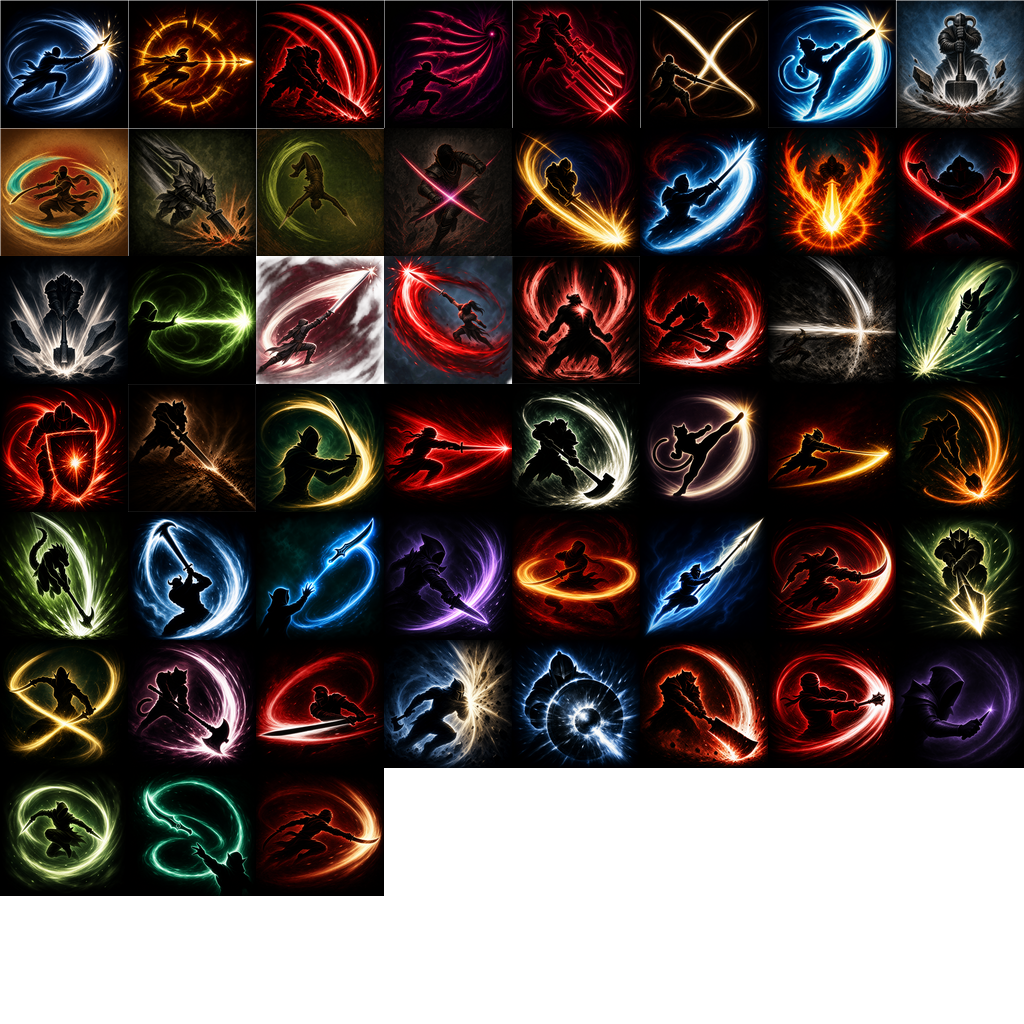
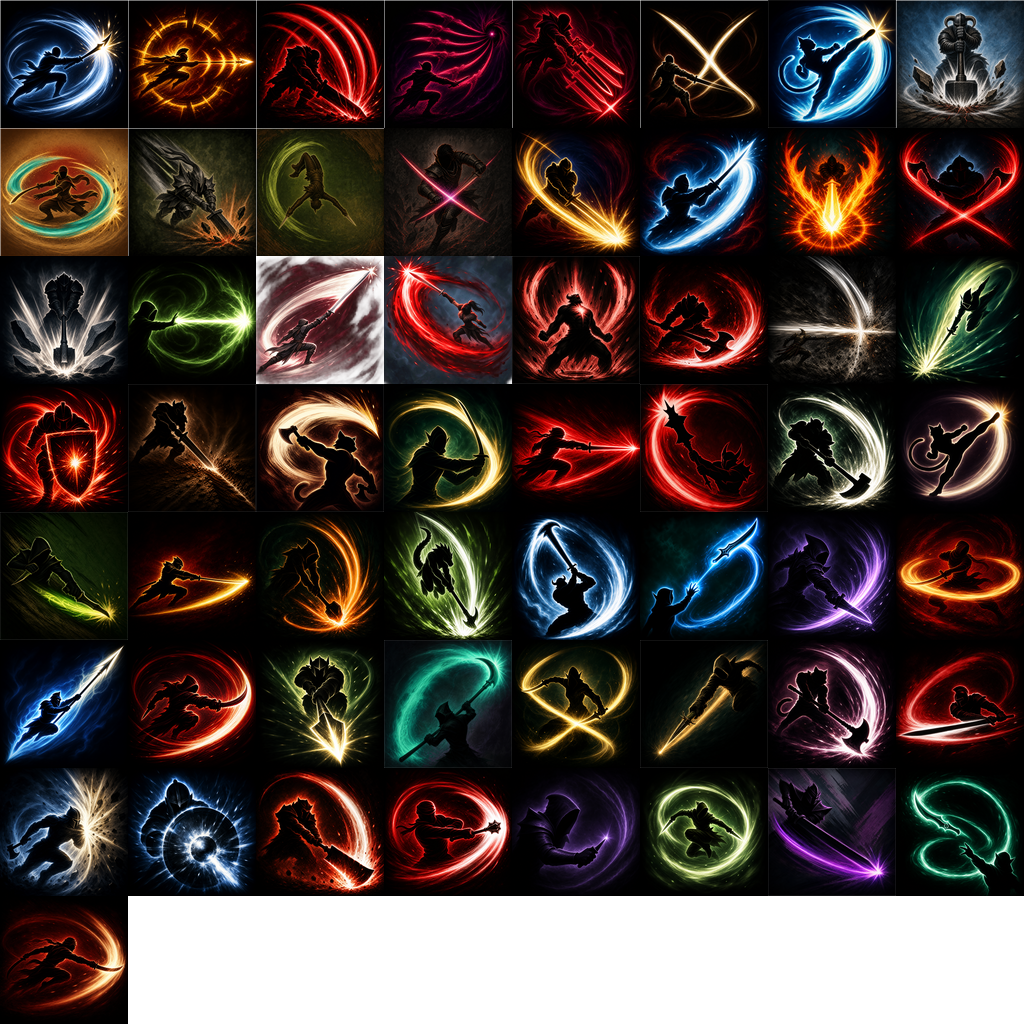
art: ship complete weapon art atlas

diff --git a/.scratch/weapon-arts/issues/06-procure-weapon-art-icons.md b/.scratch/weapon-arts/issues/06-procure-weapon-art-icons.md
@@ -474,3 +474,11 @@ faceless Dunmer Morag Tong assassin using one connected chitin/ebony shortsword 
 blade-sourced ivory wake. Unresolved unbalance/paralysis names add no darkness or other magic. Full
 and 32 px results passed. Thirty-six of 57 icons are finalized; 18 remain unprocessed and three are
 recorded hard failures.
+
+Atlas completion 2026-08-25: all 57 manifest entries now have shippable 128 x 128 inputs. The
+rebuilt 1024 x 1024 `icons_weapon_arts.png`, UV catalogue, and `arts_ashes.csv` validate with 57
+assigned keys and zero placeholders. The isolated runtime package was deployed through Skyrim
+Agent to the active `Nolvus Awakening` profile as `Dev - Spell Hotbar 2 Weapon Art Icons`; the MO2
+bridge verified it enabled at winning priority 4466, and deployed-file SHA-256 hashes match the
+package. The owner explicitly waived in-game validation for this pass, so Arts-tab/hotbar visual
+acceptance was not run.
